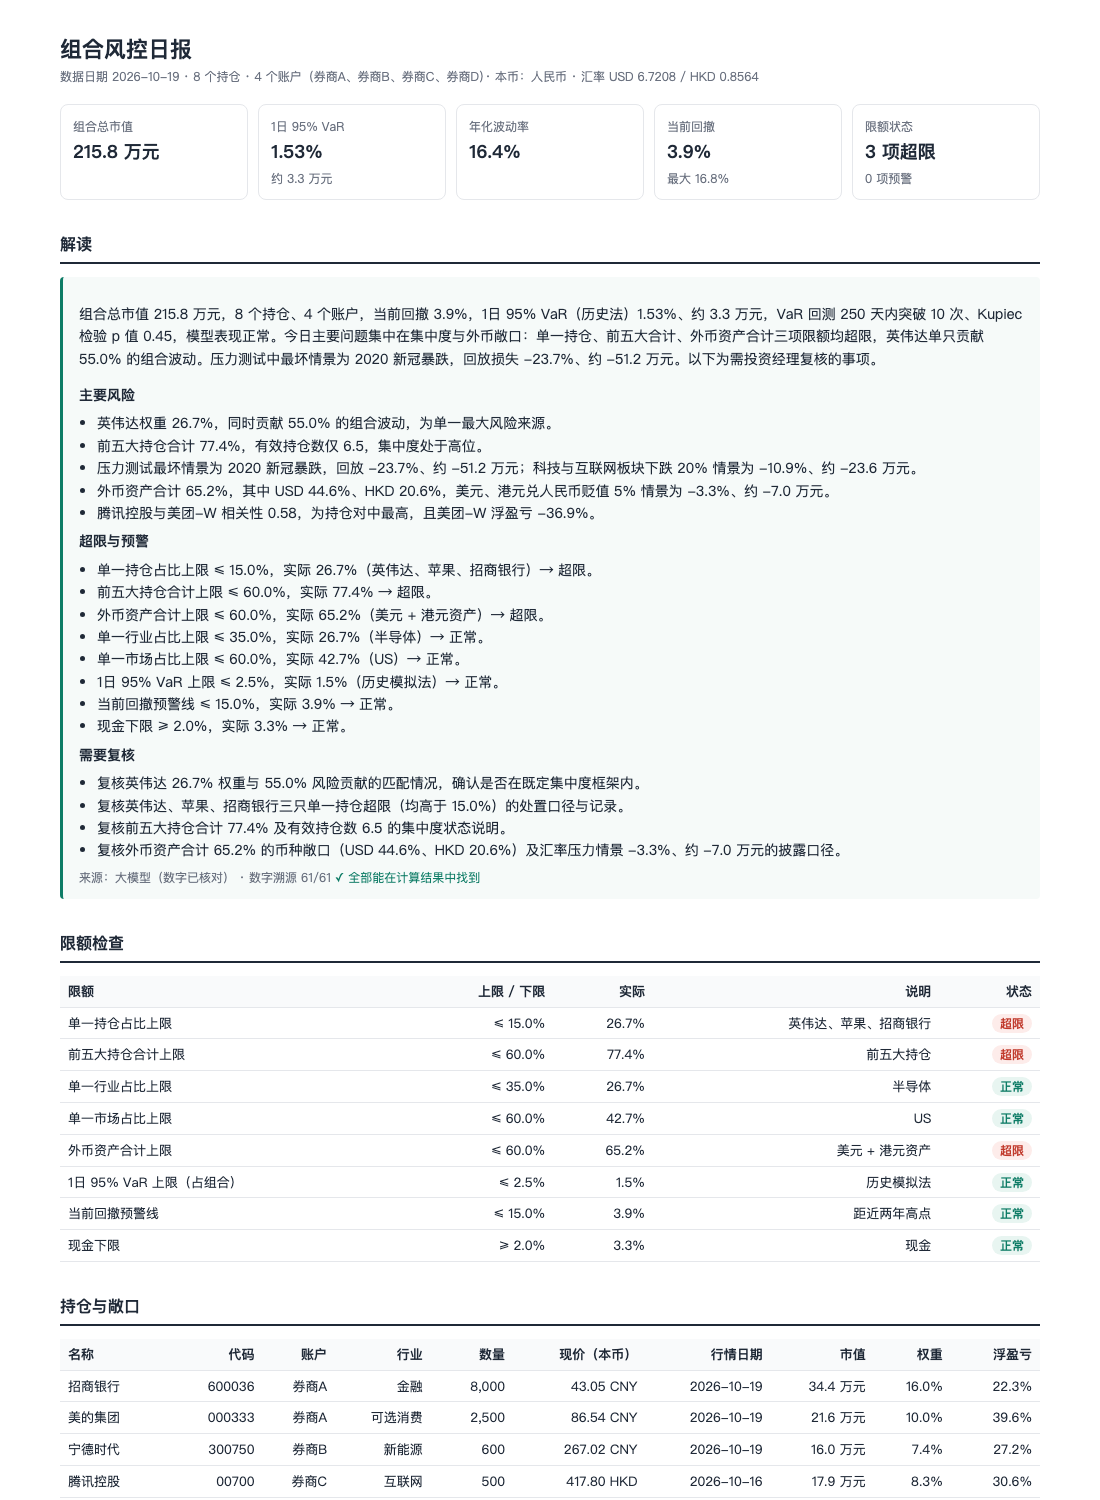
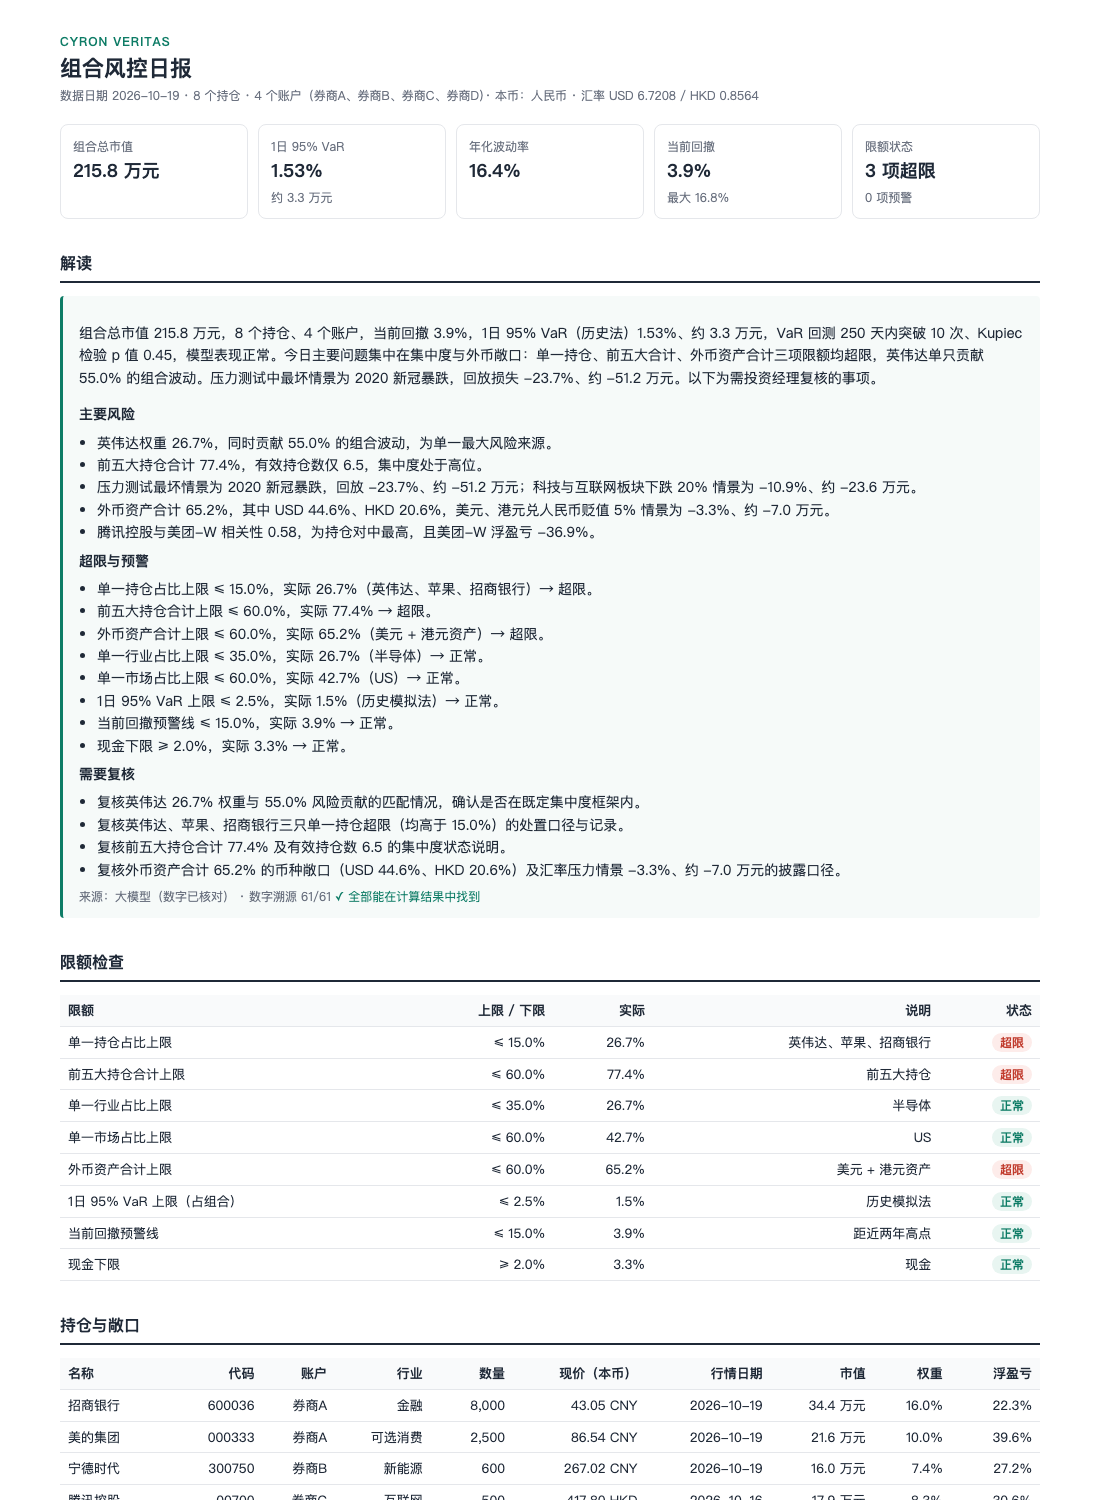
Rename project to Cyron Veritas
Package analyst_desk -> cyron_veritas, CLI desk -> veritas, branded report header.

diff --git a/docs/samples/risk_report.html b/docs/samples/risk_report.html
@@ -1,5 +1,5 @@
 <!doctype html>
-<html lang="zh-CN"><head><meta charset="utf-8"><title>组合风控日报 2026-10-19</title>
+<html lang="zh-CN"><head><meta charset="utf-8"><title>Cyron Veritas · 组合风控日报 2026-10-19</title>
 <style>
 :root{--ink:#1f2937;--muted:#6b7280;--line:#e5e7eb;--accent:#0E7C66;--red:#c0392b;--amber:#b7791f}
 body{font-family:-apple-system,"PingFang SC","Helvetica Neue",sans-serif;color:var(--ink);max-width:980px;margin:32px auto;padding:0 20px;line-height:1.6;font-size:14px}
@@ -13,7 +13,7 @@ td:first-child,th:first-child{text-align:left}.tag{padding:1px 8px;border-radius
 .src{font-size:12px;color:var(--muted)}.ok{color:var(--accent)}.bad{color:var(--red)}
 .grid2{display:grid;grid-template-columns:1fr 1fr;gap:16px}img{max-width:100%}.neg{color:var(--red)}
 </style></head><body>
-<h1>组合风控日报</h1>
+<div class="sub" style="letter-spacing:.08em;color:var(--accent);font-weight:600">CYRON VERITAS</div><h1>组合风控日报</h1>
 <div class="sub">数据日期 2026-10-19 · 8 个持仓 · 4 个账户（券商A、券商B、券商C、券商D）· 本币：人民币 · 汇率 USD 6.7208 / HKD 0.8564</div>
 
 <div class="kpis">

diff --git a/src/cyron_veritas/cli.py b/src/cyron_veritas/cli.py
@@ -1,7 +1,7 @@
 """命令行入口：
 
-    uv run desk risk  [--portfolio portfolio/sample_portfolio.csv]   生成组合风控日报
-    uv run desk research 000333                                    运行 DCF 研究 Agent
+    uv run veritas risk  [--portfolio portfolio/sample_portfolio.csv]   生成组合风控日报
+    uv run veritas research 000333                                    运行 DCF 研究 Agent
 """
 from __future__ import annotations
 
@@ -9,11 +9,11 @@ import argparse
 import json
 import sys
 
-from analyst_desk.config import PORTFOLIO_DIR
+from cyron_veritas.config import PORTFOLIO_DIR
 
 
 def main(argv: list[str] | None = None) -> None:
-    ap = argparse.ArgumentParser(prog="desk", description="AI 投研助手：组合风控日报 + DCF 研究 Agent")
+    ap = argparse.ArgumentParser(prog="veritas", description="AI 投研助手：组合风控日报 + DCF 研究 Agent")
     sub = ap.add_subparsers(dest="cmd", required=True)
     r = sub.add_parser("risk", help="生成组合风控日报")
     r.add_argument("--portfolio", default=str(PORTFOLIO_DIR / "sample_portfolio.csv"))
@@ -22,7 +22,7 @@ def main(argv: list[str] | None = None) -> None:
     a = ap.parse_args(argv)
 
     if a.cmd == "risk":
-        from analyst_desk.risk import report_graph
+        from cyron_veritas.risk import report_graph
 
         st = report_graph.run(a.portfolio)
         lim = [x for x in st["limits"] if x["status"] != "正常"]
@@ -31,7 +31,7 @@ def main(argv: list[str] | None = None) -> None:
         print(f"解读来源：{st['source']}  数字溯源 {st['check'].get('numbers_traced')}/{st['check'].get('numbers_total')}")
         print(json.dumps(st["outputs"], ensure_ascii=False, indent=2))
     elif a.cmd == "research":
-        from analyst_desk.research import agent
+        from cyron_veritas.research import agent
 
         res = agent.run(a.ticker)
         st = res["stats"]

diff --git a/src/cyron_veritas/research/agent.py b/src/cyron_veritas/research/agent.py
@@ -22,10 +22,10 @@ from langchain.agents.middleware import AgentMiddleware, ModelCallLimitMiddlewar
 from langchain_core.callbacks import UsageMetadataCallbackHandler
 from langchain_core.messages import AIMessage
 
-from analyst_desk import verify as V
-from analyst_desk.config import OUTPUT_DIR, chat_model
-from analyst_desk.research.tools import Ledger, financials_summary, make_tools
-from analyst_desk.valuation.excel import build_workbook
+from cyron_veritas import verify as V
+from cyron_veritas.config import OUTPUT_DIR, chat_model
+from cyron_veritas.research.tools import Ledger, financials_summary, make_tools
+from cyron_veritas.valuation.excel import build_workbook
 
 HIDDEN = {"ls", "read_file", "write_file", "edit_file", "delete", "glob", "grep", "execute"}
 MAIN_CALLS, SUB_CALLS, MAX_TASKS = 12, 10, 4
@@ -162,8 +162,8 @@ def run(ticker: str, model=None, out_root: Path | None = None) -> dict:
     paths = {}
     base = next((r for r in ledger.dcf_runs if r["scenario"] == "base"), ledger.dcf_runs[0] if ledger.dcf_runs else None)
     if base:
-        from analyst_desk.research.tools import wacc_inputs
-        from analyst_desk.data.financials import annual
+        from cyron_veritas.research.tools import wacc_inputs
+        from cyron_veritas.data.financials import annual
         w = next((i["result"] for i in ledger.items if i["tool"] == "get_wacc_inputs" and "wacc" in i["result"]), None)
         paths["excel"] = str(build_workbook(base["inputs"], fin["company"], base["result"]["price"], history=annual(ticker)["table"],
                                             wacc_detail=w, path=out_dir / f"{ticker}_DCF模型.xlsx"))

diff --git a/src/cyron_veritas/risk/report_graph.py b/src/cyron_veritas/risk/report_graph.py
@@ -18,10 +18,10 @@ from typing import TypedDict
 from langgraph.graph import END, StateGraph
 from pydantic import BaseModel, Field
 
-from analyst_desk import verify as V
-from analyst_desk.config import OUTPUT_DIR, chat_model
-from analyst_desk.risk import limits as L
-from analyst_desk.risk import portfolio as P
+from cyron_veritas import verify as V
+from cyron_veritas.config import OUTPUT_DIR, chat_model
+from cyron_veritas.risk import limits as L
+from cyron_veritas.risk import portfolio as P
 
 MAX_REWRITES = 1
 
@@ -149,7 +149,7 @@ def node_fallback(state: State) -> State:
 
 
 def node_render(state: State) -> State:
-    from analyst_desk.report.render import render_risk
+    from cyron_veritas.report.render import render_risk
 
     out_dir = OUTPUT_DIR / "risk" / state["facts"]["as_of"]
     paths = render_risk(state["pr"], state["limits"], state["narrative"], state["check"], state["source"],

diff --git a/tests/test_report_graph.py b/tests/test_report_graph.py
@@ -1,5 +1,5 @@
 """日报流程的路由：校验通过 → 出报告；不通过 → 重写一次；还不通过或模型挂了 → 模板。"""
-from analyst_desk.risk import report_graph as G
+from cyron_veritas.risk import report_graph as G
 
 
 def test_routes():
@@ -11,7 +11,7 @@ def test_routes():
 
 def test_fallback_text_is_fully_traced():
     from tests.test_verify_limits import _facts
-    from analyst_desk.risk import limits as L
+    from cyron_veritas.risk import limits as L
     f = _facts(total_value=1e6, var95_amount=2e4, stress={"x": {"type": "假设", "period": "", "pnl_pct": -0.1, "pnl_amount": -1e5}},
                risk_contribution={"A": 0.6, "B": 0.4})
     lim = L.check(f)

diff --git a/src/cyron_veritas/research/tools.py b/src/cyron_veritas/research/tools.py
@@ -15,10 +15,10 @@ import pandas as pd
 from langchain_core.tools import StructuredTool
 from pydantic import BaseModel, Field
 
-from analyst_desk.data import financials as F
-from analyst_desk.data import market
-from analyst_desk.risk import metrics as M
-from analyst_desk.valuation import dcf as D
+from cyron_veritas.data import financials as F
+from cyron_veritas.data import market
+from cyron_veritas.risk import metrics as M
+from cyron_veritas.valuation import dcf as D
 
 DEFAULT_ERP = 0.06  # A 股股权风险溢价假设（常见取值 5%-7%）
 

diff --git a/tests/test_excel_parity.py b/tests/test_excel_parity.py
@@ -1,8 +1,8 @@
 """Excel 公式模型和 Python 引擎必须算出同一个每股价值。"""
 import pytest
 
-from analyst_desk.valuation import dcf as D
-from analyst_desk.valuation.excel import build_workbook
+from cyron_veritas.valuation import dcf as D
+from cyron_veritas.valuation.excel import build_workbook
 
 formulas = pytest.importorskip("formulas")
 

diff --git a/src/cyron_veritas/risk/portfolio.py b/src/cyron_veritas/risk/portfolio.py
@@ -11,8 +11,8 @@ from dataclasses import dataclass, field
 import numpy as np
 import pandas as pd
 
-from analyst_desk.data import market
-from analyst_desk.risk import metrics as M
+from cyron_veritas.data import market
+from cyron_veritas.risk import metrics as M
 
 LOOKBACK_DAYS = 500  # 风险指标用最近约两年的交易日
 

diff --git a/src/cyron_veritas/valuation/excel.py b/src/cyron_veritas/valuation/excel.py
@@ -12,7 +12,7 @@ from openpyxl import Workbook
 from openpyxl.styles import Alignment, Border, Font, PatternFill, Side
 from openpyxl.utils import get_column_letter as col
 
-from analyst_desk.valuation.dcf import DCFInputs
+from cyron_veritas.valuation.dcf import DCFInputs
 
 BLUE = Font(color="1F4E9E")
 BOLD = Font(bold=True)

diff --git a/src/cyron_veritas/report/render.py b/src/cyron_veritas/report/render.py
@@ -6,8 +6,8 @@ from pathlib import Path
 
 from jinja2 import Environment, FileSystemLoader
 
-from analyst_desk import verify as V
-from analyst_desk.report import charts
+from cyron_veritas import verify as V
+from cyron_veritas.report import charts
 
 TEMPLATES = Path(__file__).parent / "templates"
 

diff --git a/src/cyron_veritas/data/financials.py b/src/cyron_veritas/data/financials.py
@@ -13,7 +13,7 @@ from __future__ import annotations
 
 import pandas as pd
 
-from analyst_desk.data.market import _cached
+from cyron_veritas.data.market import _cached
 
 YI = 1e8
 FIN_KEYWORDS = ("银行", "保险", "证券", "信托", "期货")

diff --git a/tests/test_verify_limits.py b/tests/test_verify_limits.py
@@ -1,5 +1,5 @@
-from analyst_desk import verify as V
-from analyst_desk.risk import limits as L
+from cyron_veritas import verify as V
+from cyron_veritas.risk import limits as L
 
 
 def test_numbers_must_come_from_facts():
